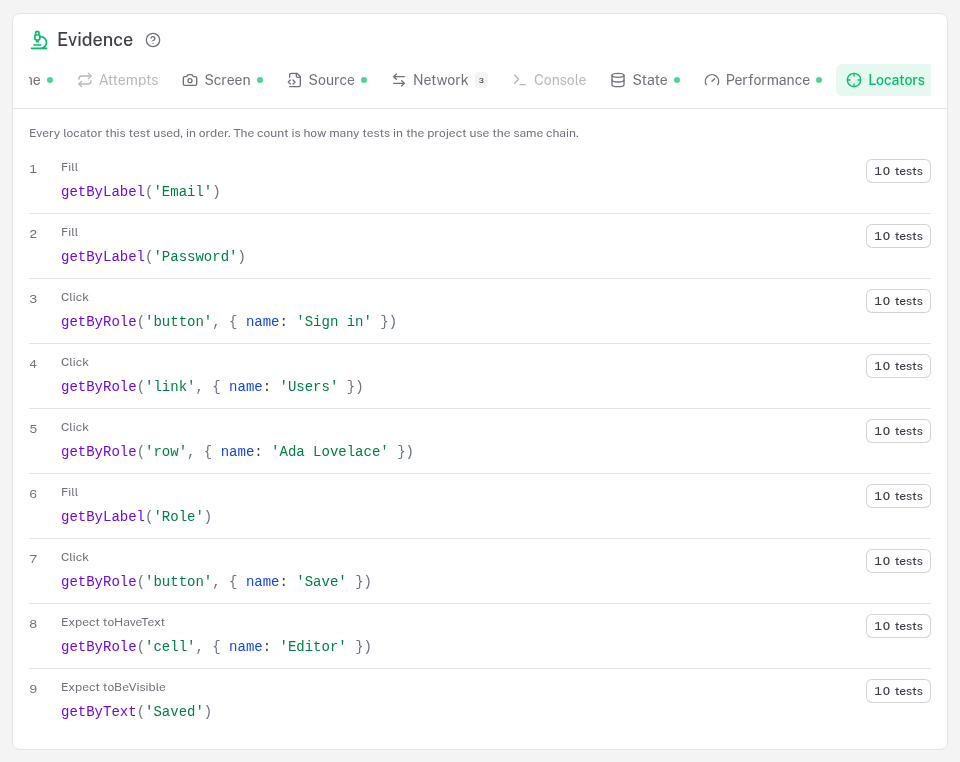
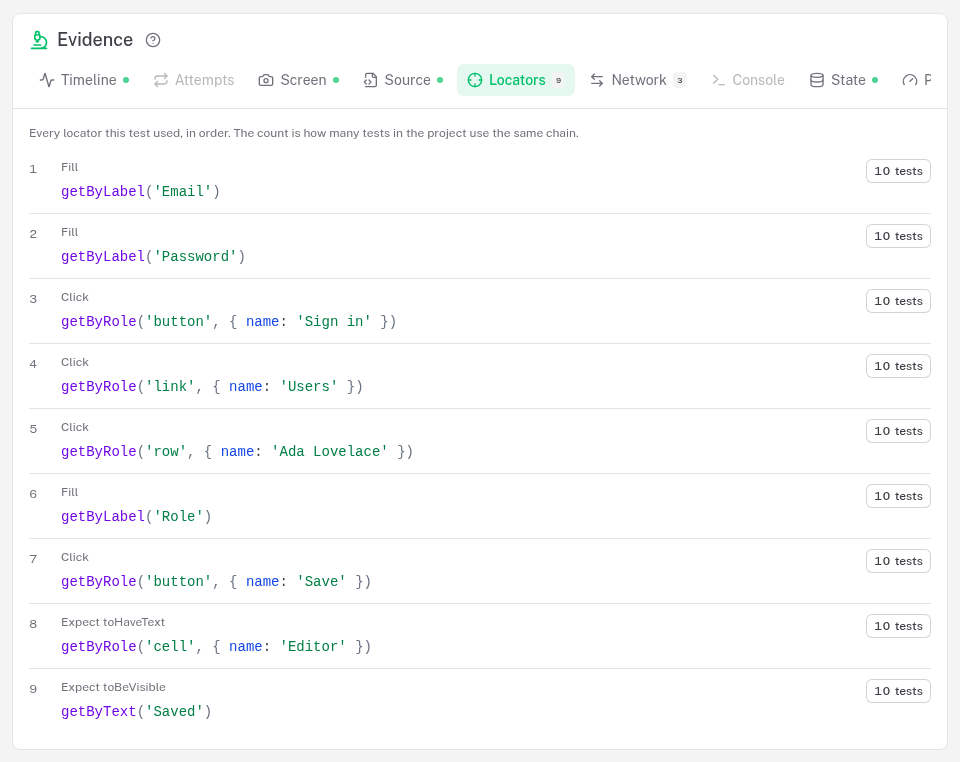
feat(ui): show a test's locators on its page and move the tab forward
The test case page gets a Locators section built from its latest execution,
with the same who-uses drawer, so the question can be asked from a test and
not only from one of its executions. On the execution page the Locators tab
moves next to Source: at the end of the strip it scrolled out of view.

Claude-Session: https://claude.ai/code/session_015FqZorSQRvwP7N69iJ6eop

Changed region(s): [[0.0312, 0.0604, 0.9688, 0.1509]]

diff --git a/apps/application/app/components/test-case/EvidenceTabs.vue b/apps/application/app/components/test-case/EvidenceTabs.vue
@@ -1,7 +1,7 @@
 <script setup lang="ts">
 /**
  * One evidence card with content-level tabs — Timeline, Screen, Source,
- * Network, Console, State, Performance, Locators — each wrapping the evidence captured for
+ * Locators, Network, Console, State, Performance — each wrapping the evidence captured for
  * an execution. A tab shows a count or a dot when it holds data and is dimmed
  * when empty; a dimmed tab still opens and states why it is empty. The default
  * tab is the one the strongest clue cites, else Timeline when it can place two
@@ -179,6 +179,13 @@ const tabs = computed<TabDef[]>(() =>
       { value: 'screen', label: 'Screen', icon: 'i-lucide-camera', hasData: screenHasData.value, count: null },
       { value: 'source', label: 'Source', icon: 'i-lucide-file-code-2', hasData: sourceHasData.value, count: null },
       {
+        value: 'locators',
+        label: 'Locators',
+        icon: 'i-lucide-crosshair',
+        hasData: locatorCount.value > 0,
+        count: locatorCount.value || null,
+      },
+      {
         value: 'network',
         label: 'Network',
         icon: 'i-lucide-arrow-left-right',
@@ -199,13 +206,6 @@ const tabs = computed<TabDef[]>(() =>
         icon: 'i-lucide-gauge',
         hasData: performanceHasData.value,
         count: null,
-      },
-      {
-        value: 'locators',
-        label: 'Locators',
-        icon: 'i-lucide-crosshair',
-        hasData: locatorCount.value > 0,
-        count: locatorCount.value || null,
       },
     ] satisfies TabDef[]
   ).filter((tab) => tabShown(tab.value) && (tab.value !== 'locators' || tab.hasData)),

diff --git a/apps/application/app/pages/test-cases/[id].vue b/apps/application/app/pages/test-cases/[id].vue
@@ -207,6 +207,21 @@ const passRateClass = computed(() => passRateTextClass(passRate.value));
           <EmptyState v-else icon="i-lucide-inbox" text="No executions yet" />
         </SectionCard>
 
+        <!-- Locators of the latest execution, each with who else uses it -->
+        <SectionCard
+          v-if="testCase?.lastExecutionId"
+          icon="i-lucide-crosshair"
+          title="Locators"
+          subtitle="From the latest execution"
+          data-shot="test-case-locators"
+        >
+          <ExecutionLocatorsCard
+            :test-runs-case-id="testCase.lastExecutionId"
+            :project-key="testCase?.project?.id"
+            :project-name="testCase?.project?.name"
+          />
+        </SectionCard>
+
         <!-- Failure clusters -->
         <SectionCard
           v-if="testCase?.failureClusters?.length"

diff --git a/apps/docs/features/locator-usage.md b/apps/docs/features/locator-usage.md
@@ -11,7 +11,7 @@ Playwright reports the full locator chain on every locator step: `getByRole('for
 
 ## The Locators tab
 
-An execution's evidence card has a **Locators** tab listing every locator the test used, in order, with the action and the call site. The count beside each one is how many tests in the project use the same chain.
+An execution's evidence card has a **Locators** tab listing every locator the test used, in order, with the action and the call site. The count beside each one is how many tests in the project use the same chain. A test case's page shows the same list for its latest execution.
 
 <figure>
   <img src="/screenshots/execution-locators.png" alt="The Locators tab of an execution: each locator the test used, numbered in step order, with its action above it and a button giving how many tests use the same chain">
